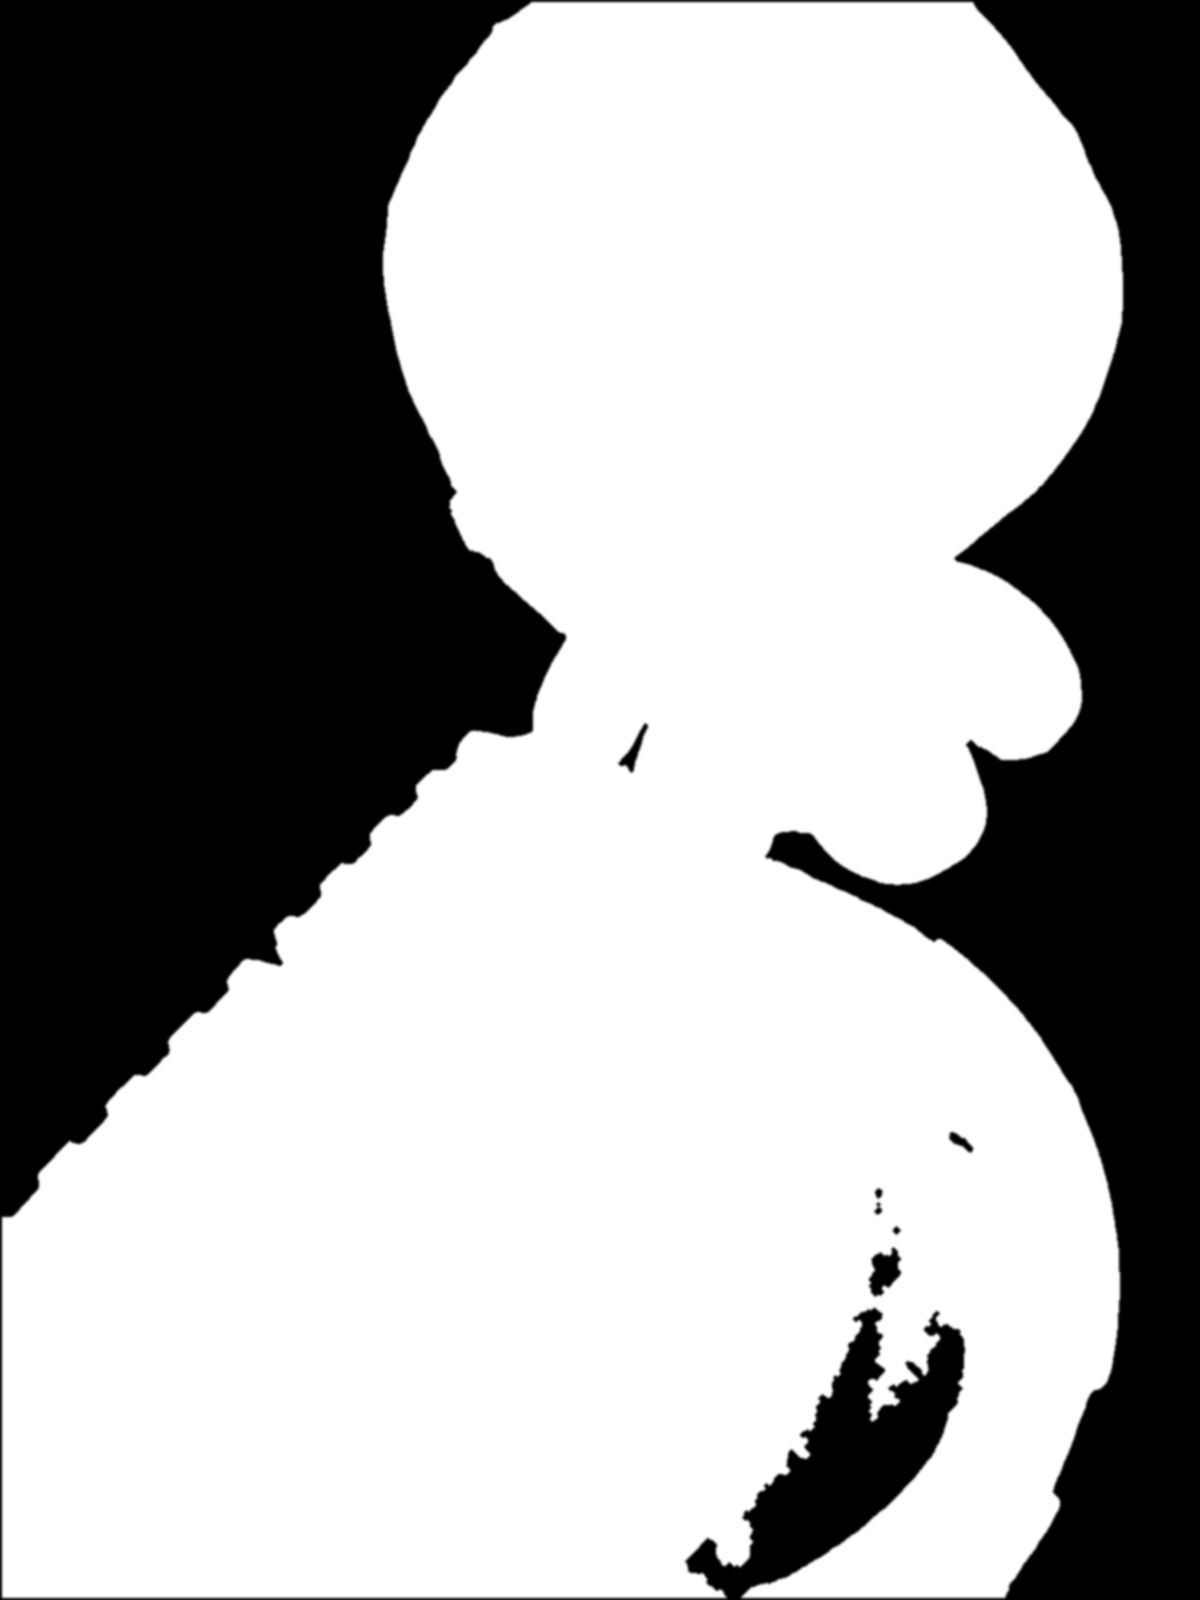
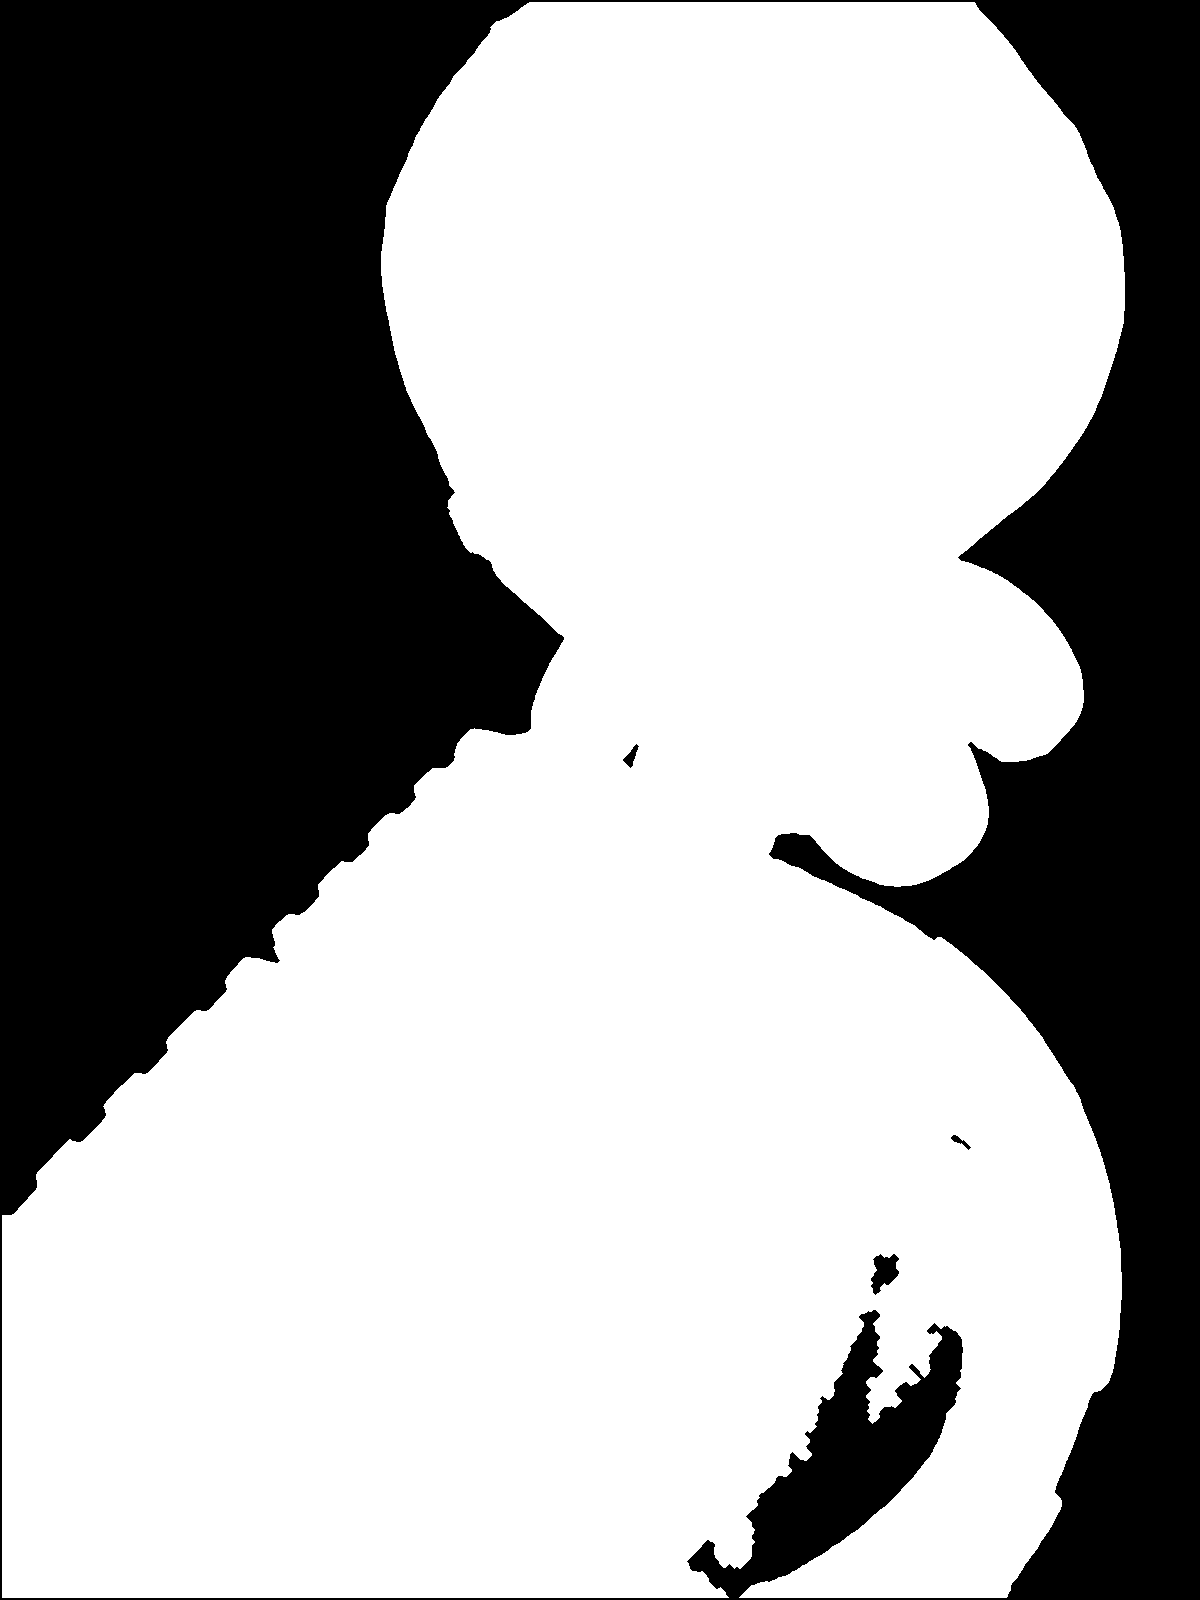
Lighten background blur and keep foreground fully sharp
Use a fixed 10px background blur and a hardened foreground mask so kid,
bear, props, and labels use original pixels with no front-side softening.

diff --git a/scripts/remove_backgrounds.py b/scripts/remove_backgrounds.py
@@ -20,7 +20,8 @@ OUT = ROOT / "docs/catalog/processed"
 SESSION = new_session("isnet-general-use")
 SESSION_BIREFNET = new_session("birefnet-general")
 
-BLUR_RADIUS = 22  # background softness
+# Light background blur only (foreground stays 100% original pixels).
+BLUR_RADIUS = 10
 
 
 @dataclass
@@ -64,11 +65,20 @@ def drop_small_islands(alpha: np.ndarray, min_fraction: float = 0.003) -> np.nda
 
 
 def refine_alpha(alpha: np.ndarray) -> np.ndarray:
-    mask = alpha > 120
-    mask = ndimage.binary_dilation(mask, iterations=2)
+    mask = alpha > 110
+    mask = ndimage.binary_dilation(mask, iterations=4)
     mask = ndimage.binary_closing(mask, iterations=2)
     out = (mask.astype(np.uint8) * 255)
-    return np.array(Image.fromarray(out, mode="L").filter(ImageFilter.GaussianBlur(radius=1.2)))
+    # Minimal edge feather so the subject/table stay sharp.
+    return np.array(Image.fromarray(out, mode="L").filter(ImageFilter.GaussianBlur(radius=0.45)))
+
+
+def harden_foreground_alpha(alpha: np.ndarray) -> np.ndarray:
+    """Full-strength original on subjects; blur only where mask is clearly background."""
+    a = alpha.astype(np.float32) / 255.0
+    a = np.clip((a - 0.22) / 0.38, 0.0, 1.0)
+    a = np.where(a > 0.72, 1.0, a)
+    return (a * 255).astype(np.uint8)
 
 
 def rembg_alpha(img: Image.Image, session=SESSION) -> np.ndarray:
@@ -104,17 +114,19 @@ def build_foreground_mask(original: Image.Image, cfg: ImageConfig) -> np.ndarray
         full_alpha = np.zeros((full_h, full_w), dtype=np.uint8)
         cropped_alpha = drop_small_islands(cropped_alpha)
         cropped_alpha = refine_alpha(cropped_alpha)
-        full_alpha[y0:y1, x0:x1] = cropped_alpha
+        full_alpha[y0:y1, x0:x1] = harden_foreground_alpha(cropped_alpha)
         return full_alpha
     alpha = drop_small_islands(alpha)
-    return refine_alpha(alpha)
+    alpha = refine_alpha(alpha)
+    return harden_foreground_alpha(alpha)
 
 
 def blur_background(original: Image.Image, alpha: np.ndarray, radius: float) -> Image.Image:
     blurred = original.filter(ImageFilter.GaussianBlur(radius=radius))
     fg = np.array(original, dtype=np.float32)
     bg = np.array(blurred, dtype=np.float32)
-    a = (alpha.astype(np.float32) / 255.0)[..., np.newaxis]
+    a = harden_foreground_alpha(alpha).astype(np.float32) / 255.0
+    a = a[..., np.newaxis]
     out = (fg * a + bg * (1.0 - a)).clip(0, 255).astype(np.uint8)
     return Image.fromarray(out, mode="RGB")
 
@@ -122,16 +134,16 @@ def blur_background(original: Image.Image, alpha: np.ndarray, radius: float) -> 
 def process(path: Path) -> None:
     cfg = CONFIG.get(path.stem, ImageConfig())
     original = Image.open(path).convert("RGB")
-    radius = max(14, min(original.size) // 45)
     alpha = build_foreground_mask(original, cfg)
-    result = blur_background(original, alpha, radius=max(BLUR_RADIUS, radius))
+    blur_radius = BLUR_RADIUS
+    result = blur_background(original, alpha, radius=blur_radius)
 
     OUT.mkdir(parents=True, exist_ok=True)
     stem = path.stem
     result.save(OUT / f"{stem}-blurred.jpg", quality=93, optimize=True)
     # Optional soft mask for edits
     Image.fromarray(alpha, mode="L").save(OUT / f"{stem}-mask.png")
-    print("OK", path.name, f"blur={max(BLUR_RADIUS, radius):.0f}")
+    print("OK", path.name, f"blur={blur_radius:.0f}")
 
 
 def main() -> None:
